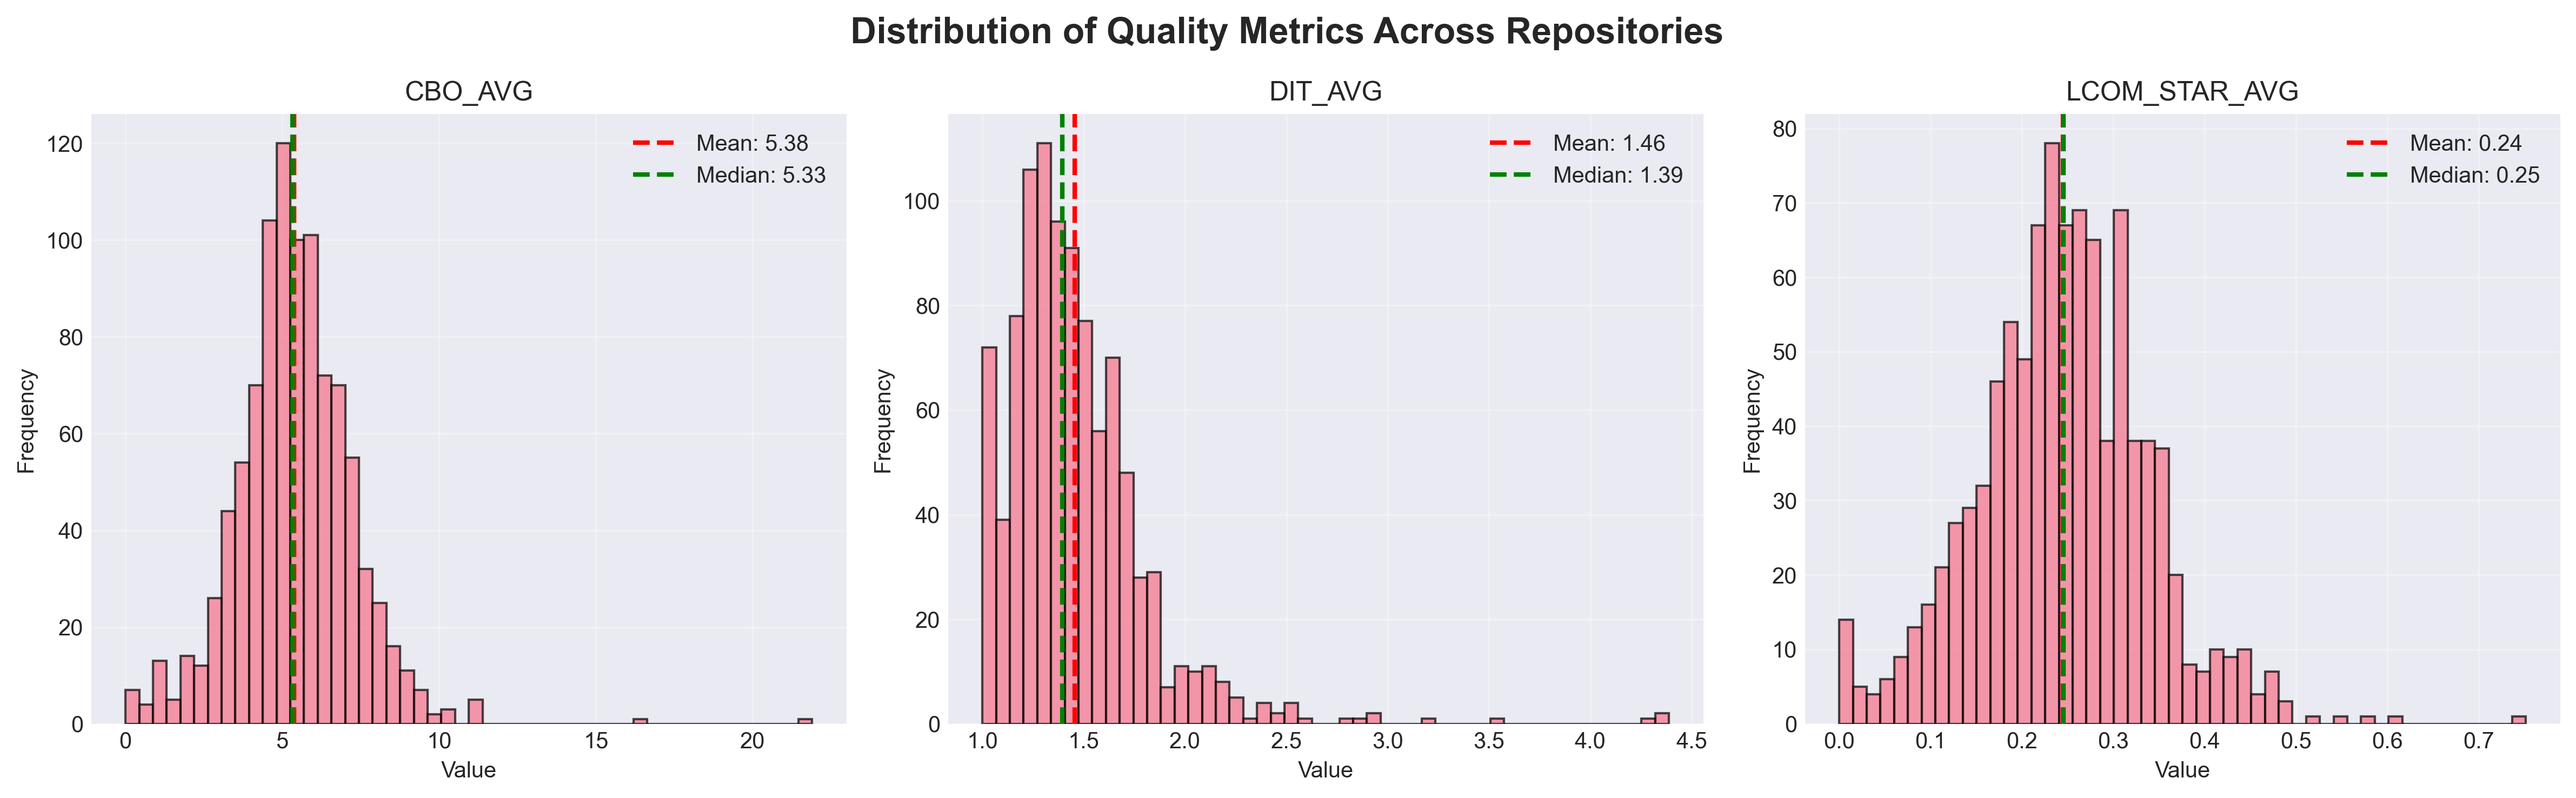
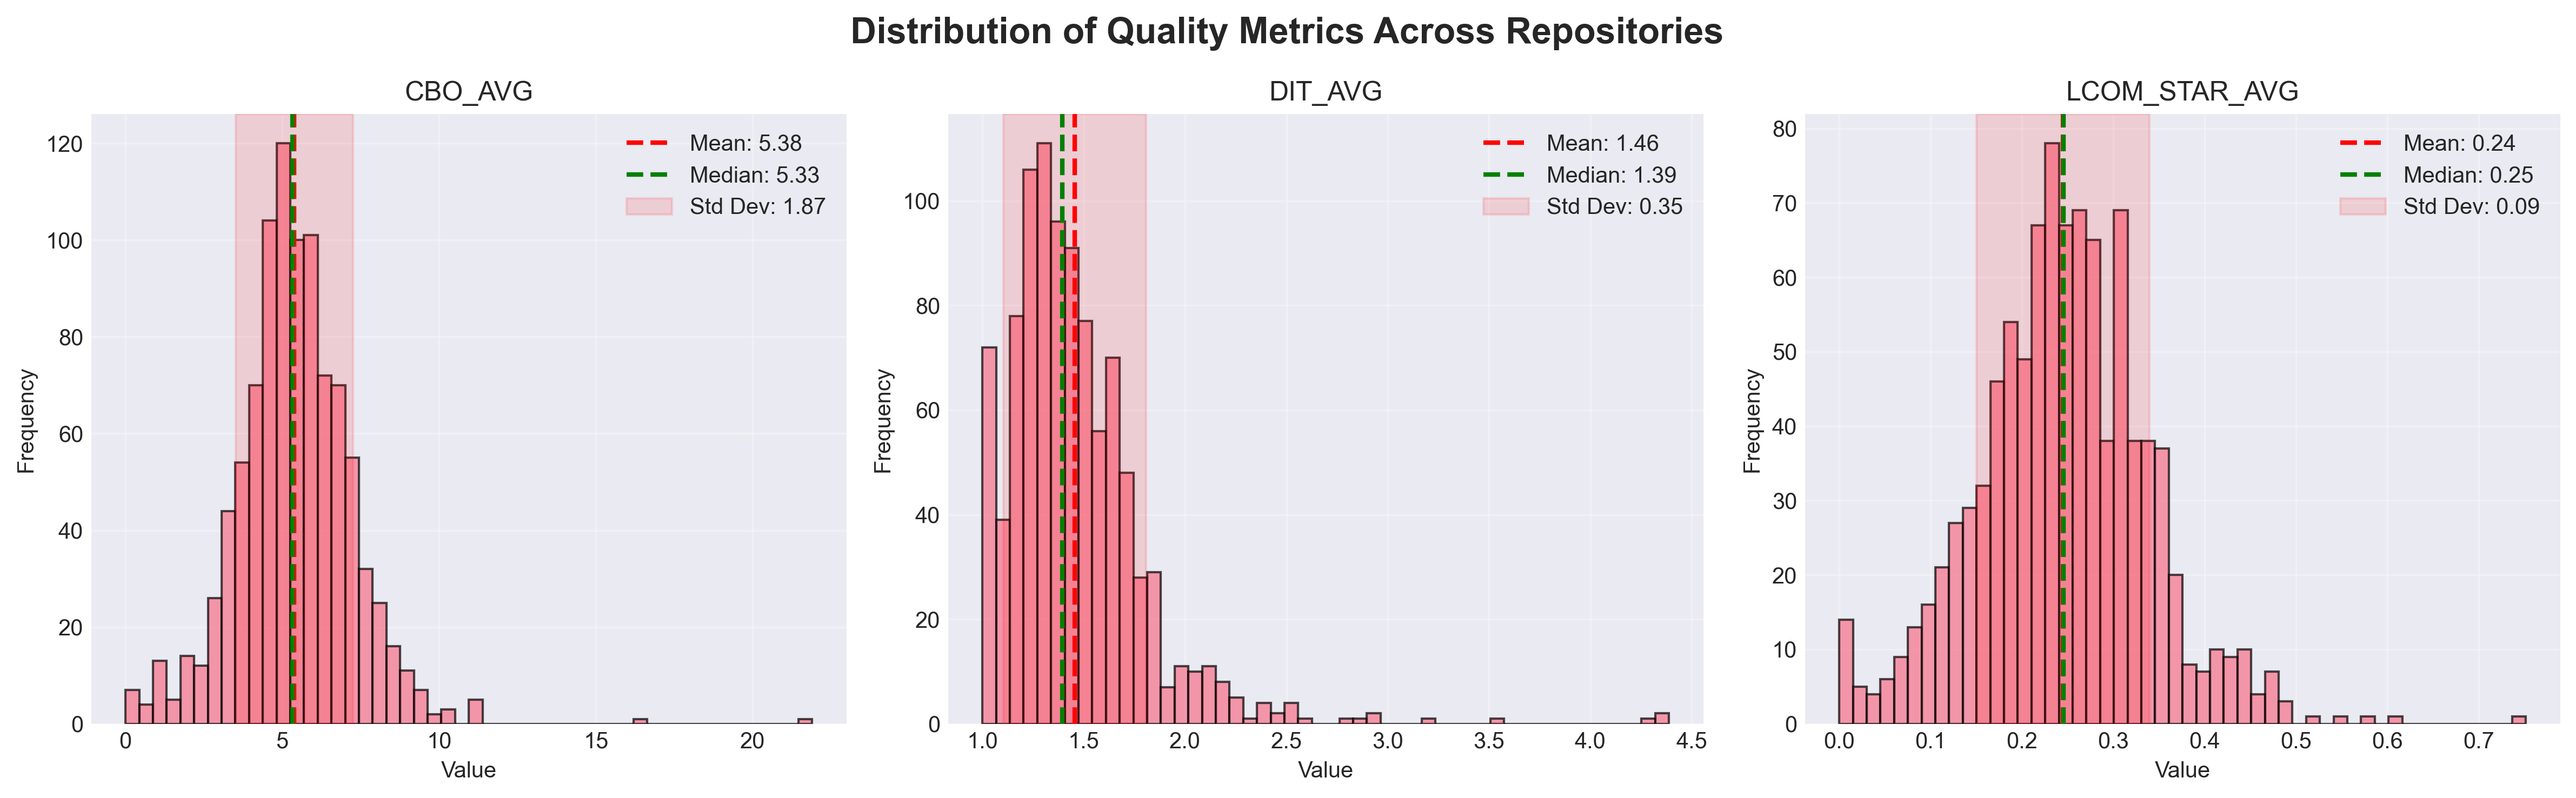
fix: adiciona desvio padrão ao gráfico

diff --git a/src/analysis/correlations.py b/src/analysis/correlations.py
@@ -277,6 +277,8 @@ def create_distribution_plots(df):
             ax.hist(data, bins=50, alpha=0.7, edgecolor='black')
             ax.axvline(data.mean(), color='red', linestyle='--', linewidth=2, label=f'Mean: {data.mean():.2f}')
             ax.axvline(data.median(), color='green', linestyle='--', linewidth=2, label=f'Median: {data.median():.2f}')
+            ax.axvspan(data.mean() - data.std(), data.mean() + data.std(),
+                       alpha=0.12, color='red', label=f'Std Dev: {data.std():.2f}')
             
             ax.set_xlabel('Value')
             ax.set_ylabel('Frequency')
